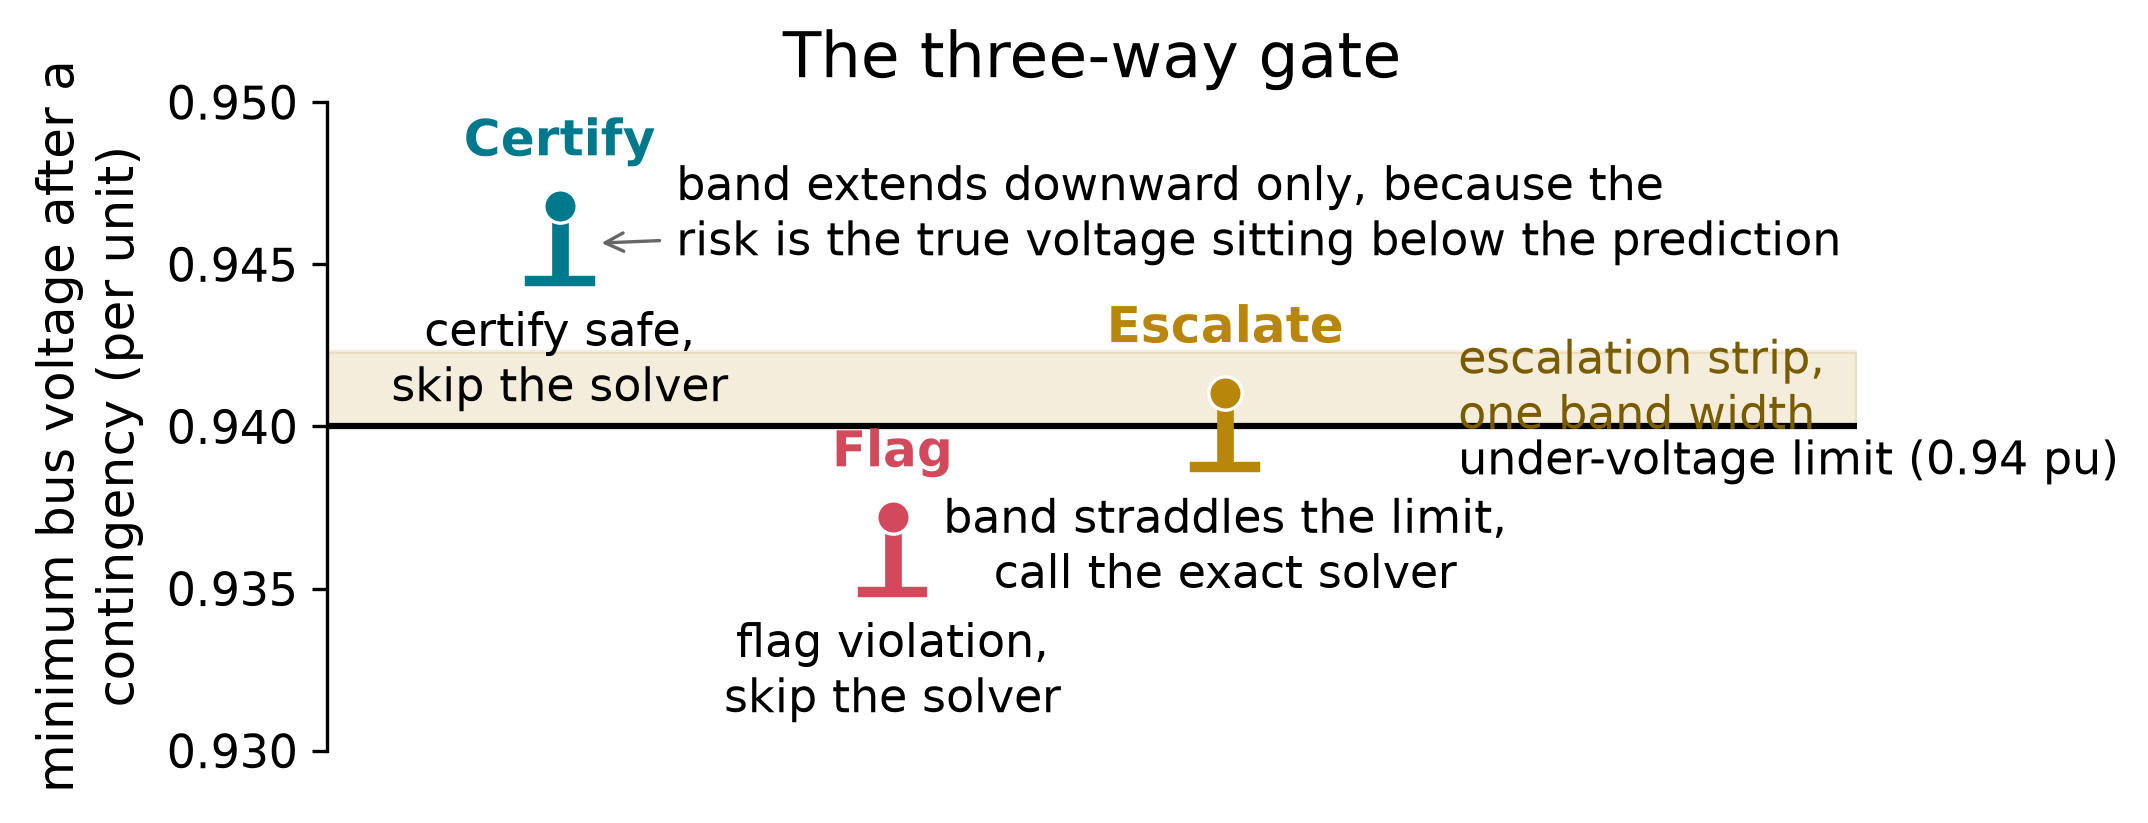
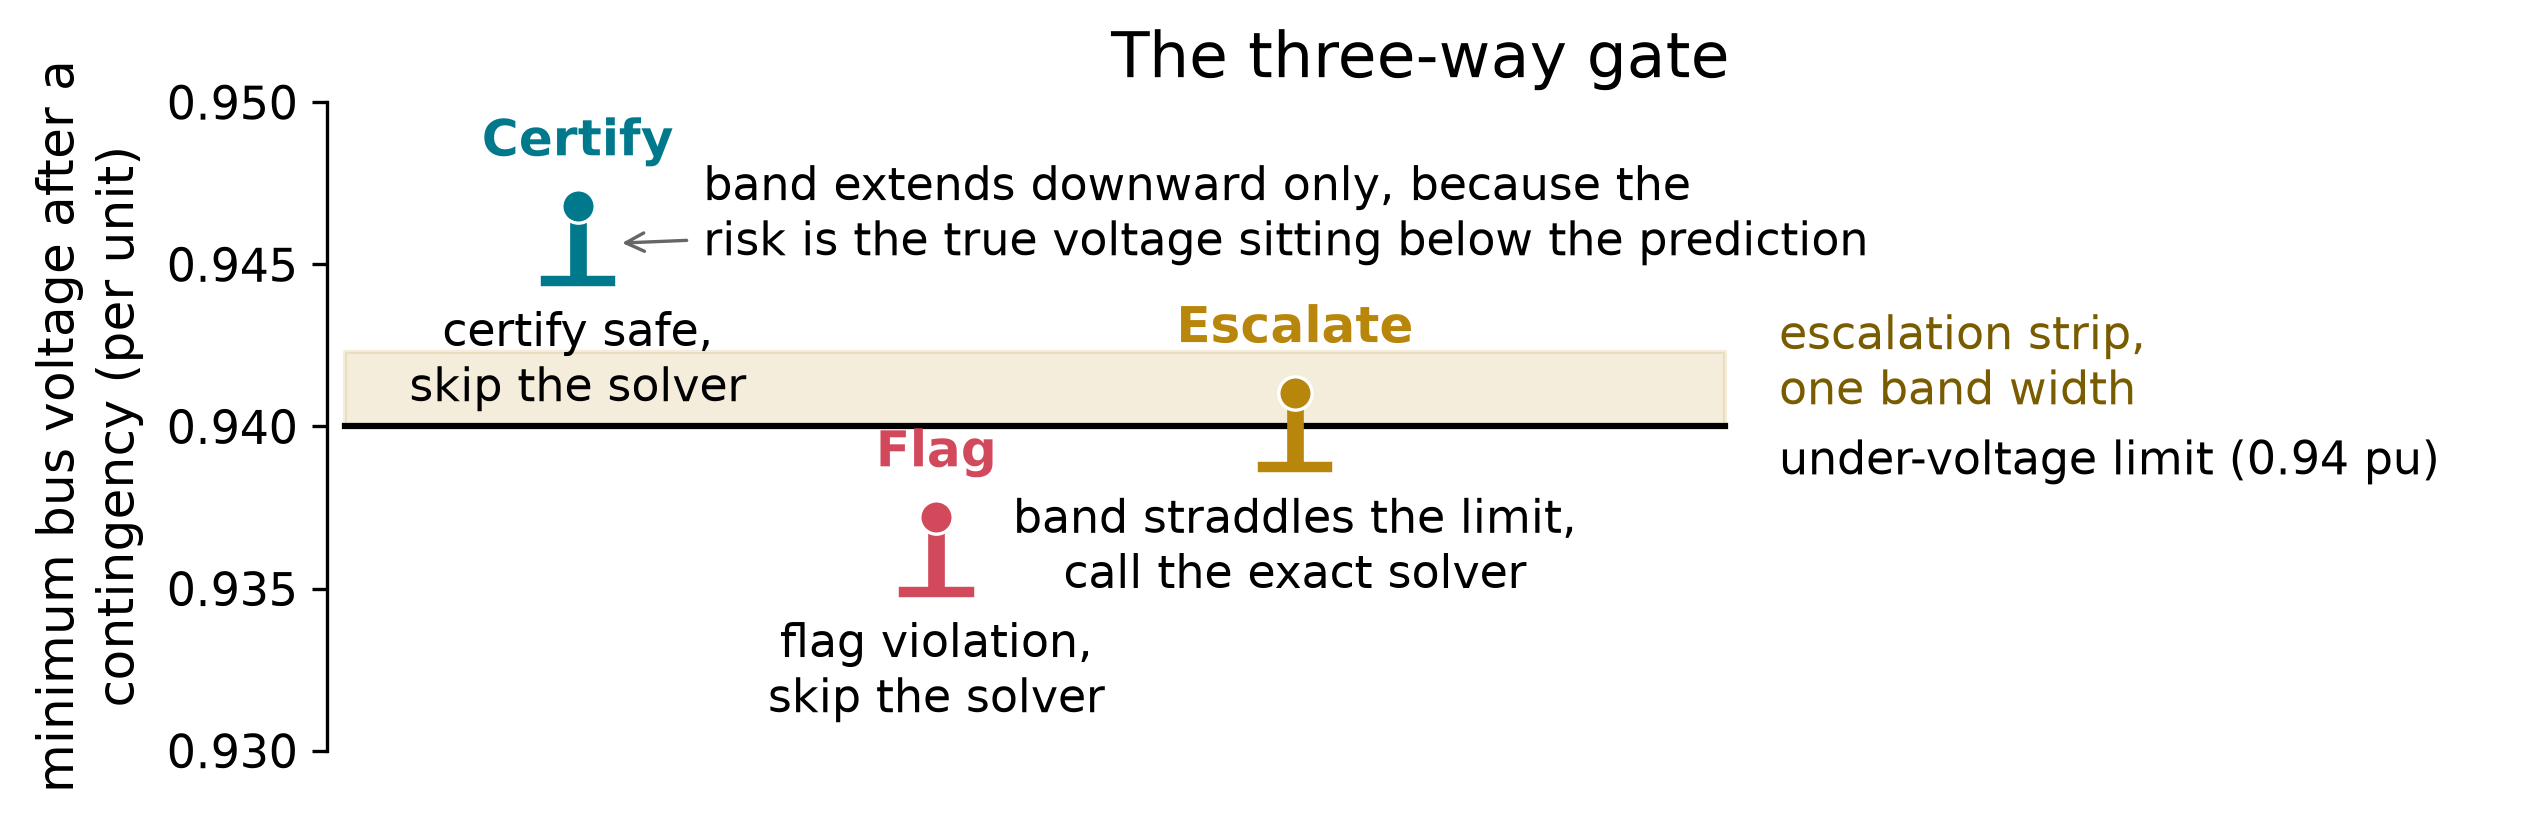
Retitle STS version; fixed ordering of paragraphs to ensure graphs are mentioned beforehand

diff --git a/report/paper_current_STS.tex b/report/paper_current_STS.tex
@@ -49,9 +49,7 @@
 
 \renewcommand{\thesection}{\Roman{section}}
 
-\title{\vspace{-0.5in}\textbf{Conformal-Gated Surrogate Screening for N-1
-Under-Voltage Contingencies: Safety and Throughput Limits on a Marginally
-Secure Network}}
+\title{\vspace{-0.5in}\textbf{Conformal‑Gated Surrogate Screening for N‑1 Under‑Voltage Contingencies: Safety and Throughput Limits Set by Boundary Mass}}
 
 \author{Rajan Saha\\
 \small Conestoga High School, Berwyn, PA, USA\\
@@ -136,6 +134,8 @@ Here $n$ is the total number of contingencies, $t_{\text{solve}}$ is the solver 
 \centering
 \includegraphics[width=0.8\textwidth]{data/gate_schematic_v3.png}
 \caption{The surrogate predicts post-outage voltage and attaches a band extending only downward. A case is certified if the whole band clears 0.94 pu, flagged if the prediction falls below it, and escalated if the band straddles it.}
+\vspace{2pt}
+{\footnotesize Graph created by Rajan Saha using Matplotlib 3.11.1, 2026}
 \label{fig:gate}
 \end{figure}
 
@@ -197,6 +197,13 @@ histgb      & 1.6$\pm$0.1 & 0.92$\pm$0.00 & 30.6$\pm$2.5 & 4.72$\pm$0.98 & 3.29$
 \bottomrule
 \end{tabular}
 \end{table}
+\vspace{2pt}
+{\footnotesize Table created by Rajan Saha using Python and LaTeX, 2026}
+
+\subsection{Safety comes at high escalation}
+
+In Table~\ref{tab:ops}, I adjusted the target from 0.90 to 0.98 and recorded the missed and escalation rates. As the target gets larger, the missed rate decreases, but the escalation rate goes up because the band size has to be bigger to account for model overshoot. For the gradient-boosted model, increasing the target from 0.90 to 0.94 decreases the missed rate from 4.72\% to 2.48\%, increases the escalation from 30.6\% to 46.7\%, and decreases the speed-up from 3.29 to 2.15 times. The ridge model shows a similar pattern as well, with the average of missed cases falling below 1\% at 0.94 for the ridge model (0.79\% missed, 64.3\% escalation, 1.56 times faster) and 0.97 for the gradient-boosted model (0.83\% missed, 63.7\% escalation, 1.58 times faster), although the error bars still reach up to about 1.0--1.07\%, as Fig.~\ref{fig:tradeoff} shows.
+
 
 % ---------------------------------------------------------------------
 % TABLE II (tab:ops) -- v2 PROMOTED (M2 gate-aware tuned) bodies, from
@@ -228,6 +235,9 @@ histgb & 0.98 & 72.0$\pm$3.7 & 98.0$\pm$0.2 & 0.30$\pm$0.13 & 1.39$\pm$0.07 \\
 \bottomrule
 \end{tabular}
 \end{table}
+\vspace{2pt}
+{\footnotesize Table created by Rajan Saha using Python and LaTeX, 2026}
+
 
 % ---------------------------------------------------------------------
 % FIGURE 2 (fig:tradeoff) -- coverage sweep,
@@ -235,14 +245,16 @@ histgb & 0.98 & 72.0$\pm$3.7 & 98.0$\pm$0.2 & 0.30$\pm$0.13 & 1.39$\pm$0.07 \\
 % ---------------------------------------------------------------------
 \begin{figure}[htbp]
 \centering
-\includegraphics[width=0.65\textwidth]{data/tradeoff_hero_col_v2.png}
+\includegraphics[width=0.6\textwidth]{data/tradeoff_hero_col_v2.png}
 \caption{Escalation (solid, left axis) and missed violations (dotted, right axis) are plotted against the safety target and averaged over five splits. The mean missed rate first falls just under 1\% at 0.94 coverage for ridge and 0.97 for the gradient-boosted model, with high escalation at both and the error bars still reaching slightly above 1\%.}
+\vspace{2pt}
+{\footnotesize Graph created by Rajan Saha using Matplotlib 3.11.1, 2026}
 \label{fig:tradeoff}
 \end{figure}
 
-\subsection{Safety comes at high escalation}
+\subsection{The faster model is not the safer one}
 
-In Table~\ref{tab:ops}, I adjusted the target from 0.90 to 0.98 and recorded the missed and escalation rates. As the target gets larger, the missed rate decreases, but the escalation rate goes up because the band size has to be bigger to account for model overshoot. For the gradient-boosted model, increasing the target from 0.90 to 0.94 decreases the missed rate from 4.72\% to 2.48\%, increases the escalation from 30.6\% to 46.7\%, and decreases the speed-up from 3.29 to 2.15 times. The ridge model shows a similar pattern as well, with the average of missed cases falling below 1\% at 0.94 for the ridge model (0.79\% missed, 64.3\% escalation, 1.56 times faster) and 0.97 for the gradient-boosted model (0.83\% missed, 63.7\% escalation, 1.58 times faster), although the error bars still reach up to about 1.0--1.07\%, as Fig.~\ref{fig:tradeoff} shows.
+On the IEEE 118-bus system, the more accurate model is not safer at any point in the coverage axis, and Table~\ref{tab:models} shows that accuracy cannot settle this decision by itself. It can be said that the gradient-boosted model is much more accurate than the linear model, and has a 3.29 times speedup compared to 2.04 times. However, taking into account safety, it is clear that at a coverage of 0.96, the linear model misses 0.14\% of the violations while the gradient-boosted model misses 1.36\%. The linear model also shows the low missed rate of all targets during the sweep in the IEEE 118-bus system. At 0.90 coverage, 74\% of misses fall within one band width of the limit for the linear model and 55\% for the gradient-boosted model (Fig.~\ref{fig:missdepth}), with 26.7\% of ridge misses and 21.4\% of histgb misses falling more than 0.005 pu below the limit. The worst miss was a case at 0.0915 per unit under the limit, which was a bus that fell to 0.8485.
 
 % ---------------------------------------------------------------------
 % FIGURE 3 (fig:missdepth) -- miss-depth histogram, from
@@ -253,16 +265,14 @@ In Table~\ref{tab:ops}, I adjusted the target from 0.90 to 0.98 and recorded the
 \centering
 \includegraphics[width=0.5\textwidth]{data/miss_depth_v2.png}
 \caption{The histogram measures how far missed violations fall below 0.94 pu at 90\% coverage on a logarithmic count scale. Dashed lines mark each model's band width. Most misses stay within one band, but a thin tail reaches 0.0915 pu, where one certified bus had fallen to 0.8485.}
+\vspace{2pt}
+{\footnotesize Graph created by Rajan Saha using Matplotlib 3.11.1, 2026}
 \label{fig:missdepth}
 \end{figure}
 
-\subsection{The faster model is not the safer one}
-
-On the IEEE 118-bus system, the more accurate model is not safer at any point in the coverage axis, and Table~\ref{tab:models} shows that accuracy cannot settle this decision by itself. It can be said that the gradient-boosted model is much more accurate than the linear model, and has a 3.29 times speedup compared to 2.04 times. However, taking into account safety, it is clear that at a coverage of 0.96, the linear model misses 0.14\% of the violations while the gradient-boosted model misses 1.36\%. The linear model also shows the low missed rate of all targets during the sweep in the IEEE 118-bus system. At 0.90 coverage, 74\% of misses fall within one band width of the limit for the linear model and 55\% for the gradient-boosted model (Fig.~\ref{fig:missdepth}), with 26.7\% of ridge misses and 21.4\% of histgb misses falling more than 0.005 pu below the limit. The worst miss was a case at 0.0915 per unit under the limit, which was a bus that fell to 0.8485.
-
 \subsection{The boundary layer sets a floor on escalation}
 
-Most of the contingencies are at a distance of less than 0.005 per unit from the boundary, thus causing a significant number of escalations. The distribution of voltages after contingencies is shown in Fig.~\ref{fig:boundary}. Out of all the converged cases, 56.86\% are in a narrow range of [0.94, 0.945), slightly higher than the threshold, and 17.48\% lie below the limit as violations. Importantly, there is not a single 0.001-wide unit bin that accounts for more than about 14\% of the whole dataset. Certain buses account for extreme events, with bus 76 being the weakest one, holding the minimum voltage in 27.1\% of contingencies, whereas bus 53 is second with 16.81\%, followed by bus 107 with 9.31\%.
+Most of the contingencies are at a distance of less than 0.005 per unit from the boundary, thus causing a significant number of escalations. The distribution of voltages after contingencies is shown in Fig.~\ref{fig:boundary}. Out of all the converged cases, 56.86\% are in a narrow range of [0.94, 0.945), slightly higher than the threshold, and 17.48\% lie below the limit as violations. Importantly, there is not a single 0.001-wide unit bin that accounts for more than about 14\% of the whole dataset. Certain buses account for extreme events, with bus 76 being the weakest one, holding the minimum voltage in 27.1\% of contingencies, whereas bus 53 is second with 16.81\%, followed by bus 107 with 9.31\%, as shown in Fig.~\ref{fig:busmap}.
 
 % ---------------------------------------------------------------------
 % FIGURE 4 (fig:boundary) -- boundary-mass histogram, from
@@ -272,8 +282,26 @@ Most of the contingencies are at a distance of less than 0.005 per unit from the
 \centering
 \includegraphics[width=0.8\textwidth]{data/boundary_mass_hist.png}
 \caption{Lowest voltage across all failure cases; anything left under the line is a violation. Over half are within 0.005 pu above the limit, while the tail below the limit drops much lower.}
+\vspace{2pt}
+{\footnotesize Graph created by Rajan Saha using Matplotlib 3.11.1, 2026}
 \label{fig:boundary}
 \end{figure}
+
+% ---------------------------------------------------------------------
+% FIGURE 5 (fig:critical) -- critical bus map, from
+% data/critical_bus_map.png. Cited in IV-C.
+% ---------------------------------------------------------------------
+
+\begin{figure}[htbp]
+\centering
+\includegraphics[width=0.6\textwidth]{data/critical_bus_map.png}
+\caption{Buses that most frequently hold the minimum post-contingency voltage across all converged N-1 cases. The three dominant buses are 76, 53, and 107 (see main text for their shares: 27.1\%, 16.81\%, and 9.31\%). The layout shown is topological rather than geographic; node positions do not correspond to physical locations.}
+\label{fig:busmap}
+\vspace{2pt}
+{\footnotesize Figure created by Rajan Saha using Matplotlib 3.11.1, 2026.}
+\end{figure}
+
+
 
 A case is escalated when the prediction lies within one band-width above the 0.94 pu limit, since the band straddles the threshold. The gradient-boosted model's band is only 0.0023 pu wide, but so much of the distribution sits just above 0.94 that this narrow window still captures 30.6\% of all contingencies. As the band becomes larger, escalation moves closer to every case predicted at or above the limit, the remaining 82.52\% of cases, or the saturation point. Linear prediction overpredicts cases below the limit compared to gradient-boosted prediction, and thus has a lower escalation ceiling of 74.89\% versus 82.79\%. The gradient-boosted model flags violations about as often as they occur, so its ceiling essentially lands on the saturation point. A model that does not frequently predict below the threshold has a higher ceiling and misses more violations.
 
@@ -281,8 +309,7 @@ Persistence is the baseline model where the voltage before the outage of one ele
 
 \subsection{Cross-network prediction}\label{subsec:crossnet}
 
-I used non-overlapping calibration and testing data to ensure minimal bias. Across the resulting 54 predictions, the mean relative error was $0.4726$ for predictor A and $0.4933$ for predictor B. Both of these predictors use the same inputs (boundary mass and the calibration band width) but differ in what algorithms were used. Predictor A used the parameter-free form $\rho\cdot\hat{q}$ (the predictive density at the limit), while predictor B calculates a trend line across different networks using the same inputs. When predictor A outperformed predictor B under this locked test, it indicates that adding a complex, custom calculation does not guarantee any model improvement in comparison to the parameter-free version.  
-
+I used non-overlapping calibration and testing data to ensure minimal bias. Across the resulting 54 predictions, the mean relative error was $0.4726$ for predictor A and $0.4933$ for predictor B. Both of these predictors use the same inputs (boundary mass and the calibration band width) but differ in what algorithms were used. Predictor A used the parameter-free form $\rho\cdot\hat{q}$ (the density of the observed post-contingency voltages at the limit), while predictor B calculates a trend line across different networks using the same inputs. When predictor A outperformed predictor B under this locked test, it indicates that adding a complex, custom calculation does not guarantee any model improvement in comparison to the parameter-free version.  
 I also dropped two networks, case57 and case89pegase, early due to major issues. In case57, the voltage was too low across the whole network, meaning it was not possible to bring any bus above the 0.94 pu threshold under realistic conditions, as at load multiplier 0.0 the minimum pre-outage voltage remained 0.9012 pu with 24 buses below the 0.94 pu threshold. In case89pegase, the transformers, at nominal load, were at 392\% of rated load (16 of 50 transformers over 100\%). At load multiplier 0.0, the maximum loading across all the elements in the grid was 199.37\%, meaning that no load-multiplier window falls within a safe thermal loading threshold, so the case was left out.  
 
 I tested five networks in total, with three of them completing the full cross-network prediction protocol. I locked and hashed the predictions before each target network's gate ran, and confirmed that all three hashes were intact afterward. The three networks that completed the full protocol were case39, case24\_ieee\_rts, and case\_illinois200. There were no claims made about the accuracy of all 54 predictions, and the reported mean relative errors are only the final results from this cross-network comparison test. This is shown only to suggest that fitting a slope on prior networks does not reliably improve predictions on new networks.

diff --git a/feasibility/gate_schematic.py b/feasibility/gate_schematic.py
@@ -9,6 +9,7 @@ import classical_manifest as cm
 import figtools as ft
 
 LIMIT = 0.94
+RULE_END = 4.2
 CURVE = "data/tradeoff_curve.json"
 OUT = "data/gate_schematic.png"
 POSTER_OUT = "data/poster/gate_schematic.png"
@@ -59,15 +60,18 @@ def main():
     out_path = (POSTER_OUT if args.poster and args.out == OUT else args.out)
     if args.poster:
         os.makedirs(os.path.dirname(out_path), exist_ok=True)
-    figsize = (7.16, 2.8)
+    figsize = (8.6, 2.8)
     bbox = "tight"
 
     fig, ax = plt.subplots(figsize=figsize)
     ax.set_ylim(0.930, 0.950)
-    ax.set_xlim(0.3, 4.9)
+    ax.set_xlim(0.3, 6.4)
 
-    ax.axhspan(LIMIT, LIMIT + qhat, color=C_ESCALATE, alpha=0.14, zorder=0)
-    ax.axhline(LIMIT, color="black", lw=1.5, zorder=2)
+    # the strip and the limit line stop at RULE_END so that the right-hand
+    # labels sit in clean space; a full-width axhline would strike through them
+    ax.fill_between([0.35, RULE_END], LIMIT, LIMIT + qhat, color=C_ESCALATE, alpha=0.14,
+                    zorder=0)
+    ax.plot([0.35, RULE_END], [LIMIT, LIMIT], color="black", lw=1.5, zorder=2)
 
     draw_case(ax, 1, LIMIT + qhat + 0.0045, qhat, C_CERTIFY, "Certify",
               "certify safe,\nskip the solver")
@@ -76,10 +80,10 @@ def main():
     draw_case(ax, 3, LIMIT + qhat * 0.45, qhat, C_ESCALATE, "Escalate",
               "band straddles the limit,\ncall the exact solver")
 
-    ax.text(3.7, LIMIT - 0.0004, "under-voltage limit (0.94 pu)", ha="left", va="top",
-            fontsize=FS_ANNOT)
-    ax.text(3.7, LIMIT + qhat / 2, "escalation strip,\none band width", ha="left",
-            va="center", fontsize=FS_ANNOT, color="#7a5c00")
+    ax.text(RULE_END + 0.15, LIMIT - 0.0004, "under-voltage limit (0.94 pu)", ha="left",
+            va="top", fontsize=FS_ANNOT)
+    ax.text(RULE_END + 0.15, LIMIT + 0.0002, "escalation strip,\none band width", ha="left",
+            va="bottom", fontsize=FS_ANNOT, color="#7a5c00")
 
     ax.annotate("band extends downward only, because the\nrisk is the true voltage sitting below the prediction",
                 xy=(1.1, LIMIT + qhat + 0.0045 - qhat / 2), xytext=(1.35, 0.9482),
